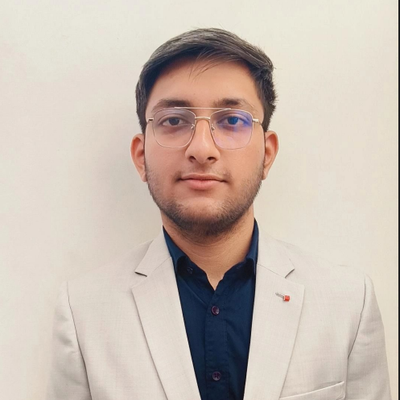
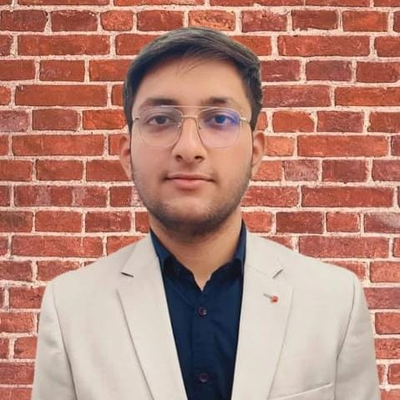
Add files via upload

diff --git a/index.html b/index.html
@@ -4,7 +4,7 @@
 <meta charset="UTF-8">
 <meta name="viewport" content="width=device-width, initial-scale=1.0">
 <title>Cases Over Coffee, SRCC | Consulting &amp; Finance Society</title>
-<meta name="description" content="Cases Over Coffee, SRCC — the consulting and finance case-study society at Shri Ram College of Commerce. Where solutions are brewed, and possibilities are stirred.">
+<meta name="description" content="Cases Over Coffee, SRCC: the consulting and finance case-study society at Shri Ram College of Commerce. Where solutions are brewed, and possibilities are stirred.">
 <link rel="preconnect" href="https://fonts.googleapis.com">
 <link rel="preconnect" href="https://fonts.gstatic.com" crossorigin>
 <link href="https://fonts.googleapis.com/css2?family=Fraunces:wght@500;600;700&family=Inter:wght@400;500;600;700&display=swap" rel="stylesheet">
@@ -39,7 +39,7 @@
   <div class="wrap">
     <div class="eyebrow">Shri Ram College of Commerce</div>
     <h1>Where solutions are&nbsp;brewed,<br>and possibilities are&nbsp;stirred.</h1>
-    <p class="hero-tag">Cases Over Coffee, SRCC is a student-driven consulting and finance society, built on real cases, real mentors, and real outcomes.</p>
+    <p class="hero-tag">Cases Over Coffee, SRCC is a student-driven consulting and finance society,<br>built on real cases, real mentors, and real outcomes.</p>
     <div class="hero-actions">
       <a href="about.html" class="btn btn-outline">Learn More</a>
     </div>
@@ -54,14 +54,14 @@
 </div>
 
 <section>
-  <div class="wrap two-col">
+  <div class="wrap">
     <div class="reveal">
       <div class="ring-divider reveal"><span class="ring"></span><span class="line"></span></div>
       <h2>Experiential learning, not just theory</h2>
-      <p class="muted" style="margin-top:18px;">We champion learning through real-world case studies, intensive bootcamps, industry partnerships, and competitive challenges — cultivating critical thinking, strategic problem-solving, and collaborative leadership in every SRite who joins us.</p>
-      <a href="about.html" class="btn btn-outline" style="margin-top:10px;">Read our story</a>
+      <p class="muted" style="margin-top:18px; max-width:640px;">We champion learning through real-world case studies, intensive bootcamps, industry partnerships, and competitive challenges, cultivating critical thinking, strategic problem-solving, and collaborative leadership in every SRite who joins us.</p>
+      <a href="about.html" class="btn btn-outline" style="margin-top:16px;">Read our story</a>
     </div>
-    <div class="grid" style="gap:20px;">
+    <div class="grid grid-3" style="margin-top:40px;">
       <div class="card reveal">
         <h3>Strategic Advisory</h3>
         <p>Corporate live projects, weekly case discussions, case prep, and the CoC Annual Casebook.</p>
@@ -69,6 +69,10 @@
       <div class="card reveal">
         <h3>Research and Editorial</h3>
         <p>Industry intelligence, brand deep-dives, policy analysis, and collaborative research.</p>
+      </div>
+      <div class="card reveal">
+        <h3>Public Relations and Branding</h3>
+        <p>Brainstorming, visually appealing content, event execution, and creative campaigns.</p>
       </div>
     </div>
   </div>
@@ -78,7 +82,7 @@
   <div class="wrap">
     <div class="ring-divider reveal"><span class="ring"></span><span class="line"></span></div>
     <h2 class="reveal">Built with a global network</h2>
-    <p class="muted reveal" style="max-width:640px; margin-top:14px 0 30px;">Our partners and alumni span universities and firms across the world — the same network our members plug into from day one.</p>
+    <p class="muted reveal" style="max-width:640px; margin-top:14px 0 30px;">Our partners and alumni span universities and firms across the world, the same network our members plug into from day one.</p>
     <div class="logo-wall reveal" style="margin-top:30px;">
       <span class="logo-chip">Wharton</span>
       <span class="logo-chip">Stanford</span>
@@ -104,7 +108,7 @@
       <div class="comp-card reveal"><h3>Consult Blitz</h3><p class="muted">Fast-paced online consulting competition with real business cases.</p></div>
       <div class="comp-card reveal"><h3>ConsultXpert</h3><p class="muted">Participants tackle real-world challenges using McKinsey and BCG-style frameworks.</p></div>
       <div class="comp-card reveal"><h3>Finance Blitz</h3><p class="muted">High-stakes competition testing market knowledge and investment strategy.</p></div>
-      <div class="comp-card reveal"><h3>Fintellect</h3><p class="muted">A battlefield for the financially fearless — real-world financial scenarios.</p></div>
+      <div class="comp-card reveal"><h3>Fintellect</h3><p class="muted">A battlefield for the financially fearless: real-world financial scenarios.</p></div>
     </div>
     <a href="competitions.html" class="btn btn-outline" style="margin-top:36px;">See all competitions</a>
   </div>
@@ -114,7 +118,7 @@
   <div class="cta-photo-overlay"></div>
   <div class="wrap text-center" style="position:relative; z-index:2;">
     <h2 class="reveal" style="color:var(--cream);">Ready to brew something with us?</h2>
-    <p class="reveal" style="max-width:520px; margin:16px auto 30px; color:rgba(247,243,233,0.82);">Applications for the next cohort are open. Bring your curiosity — we'll bring the coffee.</p>
+    <p class="reveal" style="max-width:520px; margin:16px auto 30px; color:rgba(247,243,233,0.82);">Applications for the next cohort are open. Bring your curiosity; we'll bring the coffee.</p>
     <a href="contact.html" class="btn btn-primary reveal">Apply Now</a>
   </div>
 </section>
@@ -126,7 +130,7 @@
         <div class="brand" style="margin-bottom:14px;">
           <img src="assets/logo.png" alt="Cases Over Coffee, SRCC logo" class="brand-logo brand-logo-footer">
         </div>
-        <p style="font-size:0.9rem; max-width:280px;">Shri Ram College of Commerce, Maurice Nagar, University of Delhi North Campus, Delhi – 110007.</p>
+        <p style="font-size:0.9rem; max-width:280px;">Shri Ram College of Commerce, Maurice Nagar, University of Delhi North Campus, Delhi - 110007</p>
       </div>
       <div>
         <h4>Explore</h4>

diff --git a/departments.html b/departments.html
@@ -35,7 +35,7 @@
   <div class="wrap">
     <div class="eyebrow">How We're Organized</div>
     <h1>Three departments, one mission.</h1>
-    <p class="muted" style="max-width:640px; margin-top:18px;">Strategic Advisory, Research &amp; Editorial, and Public Relations &amp; Branding — each with its own focus, working toward the same case-solving culture.</p>
+    <p class="muted" style="max-width:640px; margin-top:18px;">Strategic Advisory, Research &amp; Editorial, and Public Relations &amp; Branding: each with its own focus, working toward the same case-solving culture.</p>
   </div>
 </section>
 
@@ -44,9 +44,9 @@
     <div class="ring-divider reveal"><span class="ring"></span><span class="line"></span></div>
     <h2 class="reveal">Strategic Advisory</h2>
     <div class="grid grid-4" style="margin-top:30px;">
-      <div class="card reveal"><h3>Corporate Live Projects</h3><p>Work directly with startups, SMEs, and corporates on business-critical problems — market entry strategies, competitor analysis, business model validation.</p></div>
+      <div class="card reveal"><h3>Corporate Live Projects</h3><p>Work directly with startups, SMEs, and corporates on business-critical problems: market entry strategies, competitor analysis, business model validation.</p></div>
       <div class="card reveal"><h3>Weekly Case Study Discussion</h3><p>Analyze real-world business scenarios weekly to sharpen problem-solving, critical thinking, and strategic decision-making.</p></div>
-      <div class="card reveal"><h3>Case Prep &amp; Guesstimates</h3><p>Internal upskilling for consulting interviews — weekly case practice, guesstimate drills, and the Strategy Lab Prep Handbook.</p></div>
+      <div class="card reveal"><h3>Case Prep &amp; Guesstimates</h3><p>Internal upskilling for consulting interviews: weekly case practice, guesstimate drills, and the Strategy Lab Prep Handbook.</p></div>
       <div class="card reveal"><h3>CoC Annual Casebook</h3><p>Our flagship resource: curated consulting frameworks, guesstimate approaches, and interview prep tools.</p></div>
     </div>
   </div>
@@ -58,7 +58,7 @@
     <h2 class="reveal">Research and Editorial</h2>
     <div class="grid grid-4" style="margin-top:30px;">
       <div class="card reveal"><h3>Industry Intelligence</h3><p>Tracking trends across FMCG, FinTech, and EdTech into in-depth, actionable reports.</p></div>
-      <div class="card reveal"><h3>Behind The Brands</h3><p>Breaking down real business successes and failures — like the Zomato IPO or Paytm crash — for lessons future leaders can use.</p></div>
+      <div class="card reveal"><h3>Behind The Brands</h3><p>Breaking down real business successes and failures, like the Zomato IPO or Paytm crash, for lessons future leaders can use.</p></div>
       <div class="card reveal"><h3>Policy &amp; Market Analysis</h3><p>Evaluating how government policy and budgets shape industries, bridging economics with business outcomes.</p></div>
       <div class="card reveal"><h3>Collaborative Research</h3><p>Co-authoring papers with faculty and senior researchers, backed by data-driven analysis.</p></div>
     </div>
@@ -86,7 +86,7 @@
         <div class="brand" style="margin-bottom:14px;">
           <img src="assets/logo.png" alt="Cases Over Coffee, SRCC logo" class="brand-logo brand-logo-footer">
         </div>
-        <p style="font-size:0.9rem; max-width:280px;">Shri Ram College of Commerce, Maurice Nagar, University of Delhi North Campus, Delhi – 110007.</p>
+        <p style="font-size:0.9rem; max-width:280px;">Shri Ram College of Commerce, Maurice Nagar, University of Delhi North Campus, Delhi - 110007</p>
       </div>
       <div>
         <h4>Explore</h4>

diff --git a/competitions.html b/competitions.html
@@ -53,11 +53,11 @@
       </div>
       <div class="comp-card reveal">
         <h3>Finance Blitz</h3>
-        <p class="muted">A high-stakes finance competition testing market knowledge and investment strategy — proving financial acumen through competitive challenges.</p>
+        <p class="muted">A high-stakes finance competition testing market knowledge and investment strategy, proving financial acumen through competitive challenges.</p>
       </div>
       <div class="comp-card reveal">
         <h3>Fintellect</h3>
-        <p class="muted">A finance case competition that challenges participants to solve real-world financial scenarios — a battlefield for the financially fearless.</p>
+        <p class="muted">A finance case competition that challenges participants to solve real-world financial scenarios: a battlefield for the financially fearless.</p>
       </div>
     </div>
   </div>
@@ -67,14 +67,14 @@
   <div class="wrap">
     <div class="ring-divider reveal"><span class="ring"></span><span class="line"></span></div>
     <h2 class="reveal">The Case Buddy System</h2>
-    <p class="muted reveal" style="max-width:680px; margin-top:14px;">Our signature bootcamp format — a five-stage journey from fundamentals to live consulting practice, paired with a mentor throughout.</p>
+    <p class="muted reveal" style="max-width:680px; margin-top:14px;">Our signature bootcamp format: a five-stage journey from fundamentals to live consulting practice, paired with a mentor throughout.</p>
 
     <div class="grid grid-5" style="margin-top:36px;">
       <div class="card reveal"><h3 style="font-size:1.05rem;">Guesstimates Preparation</h3><p style="font-size:0.88rem;">Partnering with MBB consultants for case interview questions.</p></div>
       <div class="card reveal"><h3 style="font-size:1.05rem;">Market Entry Case</h3><p style="font-size:0.88rem;">A mentor from the society guides participants on-site.</p></div>
       <div class="card reveal"><h3 style="font-size:1.05rem;">Profit &amp; Loss Case</h3><p style="font-size:0.88rem;">Reversing roles or solutions to build broader perspective.</p></div>
       <div class="card reveal"><h3 style="font-size:1.05rem;">Pricing Case</h3><p style="font-size:0.88rem;">Structured practice under real business constraints.</p></div>
-      <div class="card reveal"><h3 style="font-size:1.05rem;">Live Case Solving</h3><p style="font-size:0.88rem;">With a consultant — a networking opportunity that's brought in students from IIM and top B-schools.</p></div>
+      <div class="card reveal"><h3 style="font-size:1.05rem;">Live Case Solving</h3><p style="font-size:0.88rem;">A live networking opportunity with a consultant, that's brought in students from IIM and top B-schools.</p></div>
     </div>
 
     <div class="grid grid-4" style="margin-top:40px;">
@@ -101,7 +101,7 @@
         <div class="brand" style="margin-bottom:14px;">
           <img src="assets/logo.png" alt="Cases Over Coffee, SRCC logo" class="brand-logo brand-logo-footer">
         </div>
-        <p style="font-size:0.9rem; max-width:280px;">Shri Ram College of Commerce, Maurice Nagar, University of Delhi North Campus, Delhi – 110007.</p>
+        <p style="font-size:0.9rem; max-width:280px;">Shri Ram College of Commerce, Maurice Nagar, University of Delhi North Campus, Delhi - 110007</p>
       </div>
       <div>
         <h4>Explore</h4>

diff --git a/about.html b/about.html
@@ -44,7 +44,7 @@
       <div class="ring-divider reveal"><span class="ring"></span><span class="line"></span></div>
       <h2>Cases Over Coffee, Global</h2>
       <p class="muted" style="margin-top:18px;">Founded in 2020 and based out of Singapore, Cases Over Coffee was built to create a global platform for knowledge-sharing and skill-building in consulting, case-solving, and beyond.</p>
-      <p class="muted">Our partners, associates, and experts come from globally renowned institutions — Wharton, Stanford, INSEAD, Cornell, Johns Hopkins, McGill, Tufts, ISB, and the IIMs — alongside corporates including McKinsey, Bain, BCG, Dalberg, Goldman Sachs, Google, and Disney.</p>
+      <p class="muted">Our partners, associates, and experts come from globally renowned institutions: Wharton, Stanford, INSEAD, Cornell, Johns Hopkins, McGill, Tufts, ISB, and the IIMs, alongside corporates including McKinsey, Bain, BCG, Dalberg, Goldman Sachs, Google, and Disney.</p>
     </div>
     <div class="grid" style="grid-template-columns:1fr 1fr; gap:16px;">
       <div class="card reveal text-center"><div class="stat"><div class="num">40K+</div><div class="label">LinkedIn</div></div></div>
@@ -59,7 +59,7 @@
   <div class="wrap">
     <div class="ring-divider reveal"><span class="ring"></span><span class="line"></span></div>
     <h2 class="reveal">Cases Over Coffee, SRCC Chapter</h2>
-    <p class="muted reveal" style="max-width:720px; margin-top:18px;">Cases Over Coffee, SRCC is a student-driven organization that champions experiential learning through real-world case studies, intensive bootcamps, industry partnerships, and competitive challenges. We cultivate critical thinking, strategic problem-solving, and collaborative leadership skills — equipping SRites with the practical business acumen and cross-functional expertise essential for success in today's dynamic global marketplace.</p>
+    <p class="muted reveal" style="max-width:720px; margin-top:18px;">Cases Over Coffee, SRCC is a student-driven organization that champions experiential learning through real-world case studies, intensive bootcamps, industry partnerships, and competitive challenges. We cultivate critical thinking, strategic problem-solving, and collaborative leadership skills, equipping SRites with the practical business acumen and cross-functional expertise essential for success in today's dynamic global marketplace.</p>
   </div>
 </section>
 
@@ -125,7 +125,7 @@
         <div class="brand" style="margin-bottom:14px;">
           <img src="assets/logo.png" alt="Cases Over Coffee, SRCC logo" class="brand-logo brand-logo-footer">
         </div>
-        <p style="font-size:0.9rem; max-width:280px;">Shri Ram College of Commerce, Maurice Nagar, University of Delhi North Campus, Delhi – 110007.</p>
+        <p style="font-size:0.9rem; max-width:280px;">Shri Ram College of Commerce, Maurice Nagar, University of Delhi North Campus, Delhi - 110007</p>
       </div>
       <div>
         <h4>Explore</h4>

diff --git a/contact.html b/contact.html
@@ -35,7 +35,7 @@
   <div class="wrap">
     <div class="eyebrow">Get In Touch</div>
     <h1>Let's brew something together.</h1>
-    <p class="muted" style="max-width:560px; margin-top:16px;">Questions about membership, sponsorships, or partnerships — reach out below.</p>
+    <p class="muted" style="max-width:560px; margin-top:16px;">Questions about membership, sponsorships, or partnerships, reach out below.</p>
   </div>
 </section>
 
@@ -67,7 +67,7 @@
     <div class="reveal">
       <div class="card-dark">
         <h3>Find Us</h3>
-        <p style="margin-top:10px;">Shri Ram College of Commerce<br>Maurice Nagar, University of Delhi North Campus<br>Delhi – 110007, India</p>
+        <p style="margin-top:10px;">Shri Ram College of Commerce<br>Maurice Nagar, University of Delhi North Campus<br>Delhi - 110007, India</p>
         <div style="height:1px; background:rgba(247,243,233,0.15); margin:22px 0;"></div>
         <h3>Reach Us</h3>
         <div class="social-list">
@@ -108,7 +108,7 @@
         <div class="brand" style="margin-bottom:14px;">
           <img src="assets/logo.png" alt="Cases Over Coffee, SRCC logo" class="brand-logo brand-logo-footer">
         </div>
-        <p style="font-size:0.9rem; max-width:280px;">Shri Ram College of Commerce, Maurice Nagar, University of Delhi North Campus, Delhi – 110007.</p>
+        <p style="font-size:0.9rem; max-width:280px;">Shri Ram College of Commerce, Maurice Nagar, University of Delhi North Campus, Delhi - 110007</p>
       </div>
       <div>
         <h4>Explore</h4>

diff --git a/assets/style.css b/assets/style.css
@@ -1,5 +1,5 @@
 /* ============================================
-   Cases Over Coffee, SRCC — Design Tokens
+   Cases Over Coffee, SRCC: Design Tokens
    ============================================ */
 :root {
   --cream:        #FAF6ED;
@@ -209,7 +209,7 @@ footer .brand-name small { color: rgba(247,243,233,0.5); }
   .brand-name { display: none; }
 }
 
-/* Decorative corner mark — the ring icon, peeking in from the edge of a
+/* Decorative corner mark: the ring icon, peeking in from the edge of a
    section, echoing how the brand deck lets the cup-ring bleed off-frame. */
 .hero, .page-hero { position: relative; overflow: hidden; }
 .hero-bg {
@@ -379,7 +379,7 @@ nav.links a.nav-cta::after { display: none; }
   color: var(--terracotta-dim);
   font-size: 1.15rem;
   margin: 22px 0 34px;
-  max-width: 560px;
+  max-width: 620px;
 }
 .hero-actions { display: flex; gap: 16px; flex-wrap: wrap; margin-top: 8px; }
 
@@ -720,7 +720,7 @@ section.tight { padding: 50px 0; }
 .project-card ul li { margin-bottom: 4px; }
 .project-card p.impact { font-size: 0.88rem; color: var(--espresso-70); margin: 0; }
 
-/* logo marquee — laterally scrolling strip of project logos */
+/* logo marquee: laterally scrolling strip of project logos */
 .marquee {
   width: 100%;
   overflow: hidden;

diff --git a/team.html b/team.html
@@ -153,7 +153,7 @@
         <div class="brand" style="margin-bottom:14px;">
           <img src="assets/logo.png" alt="Cases Over Coffee, SRCC logo" class="brand-logo brand-logo-footer">
         </div>
-        <p style="font-size:0.9rem; max-width:280px;">Shri Ram College of Commerce, Maurice Nagar, University of Delhi North Campus, Delhi – 110007.</p>
+        <p style="font-size:0.9rem; max-width:280px;">Shri Ram College of Commerce, Maurice Nagar, University of Delhi North Campus, Delhi - 110007</p>
       </div>
       <div>
         <h4>Explore</h4>
